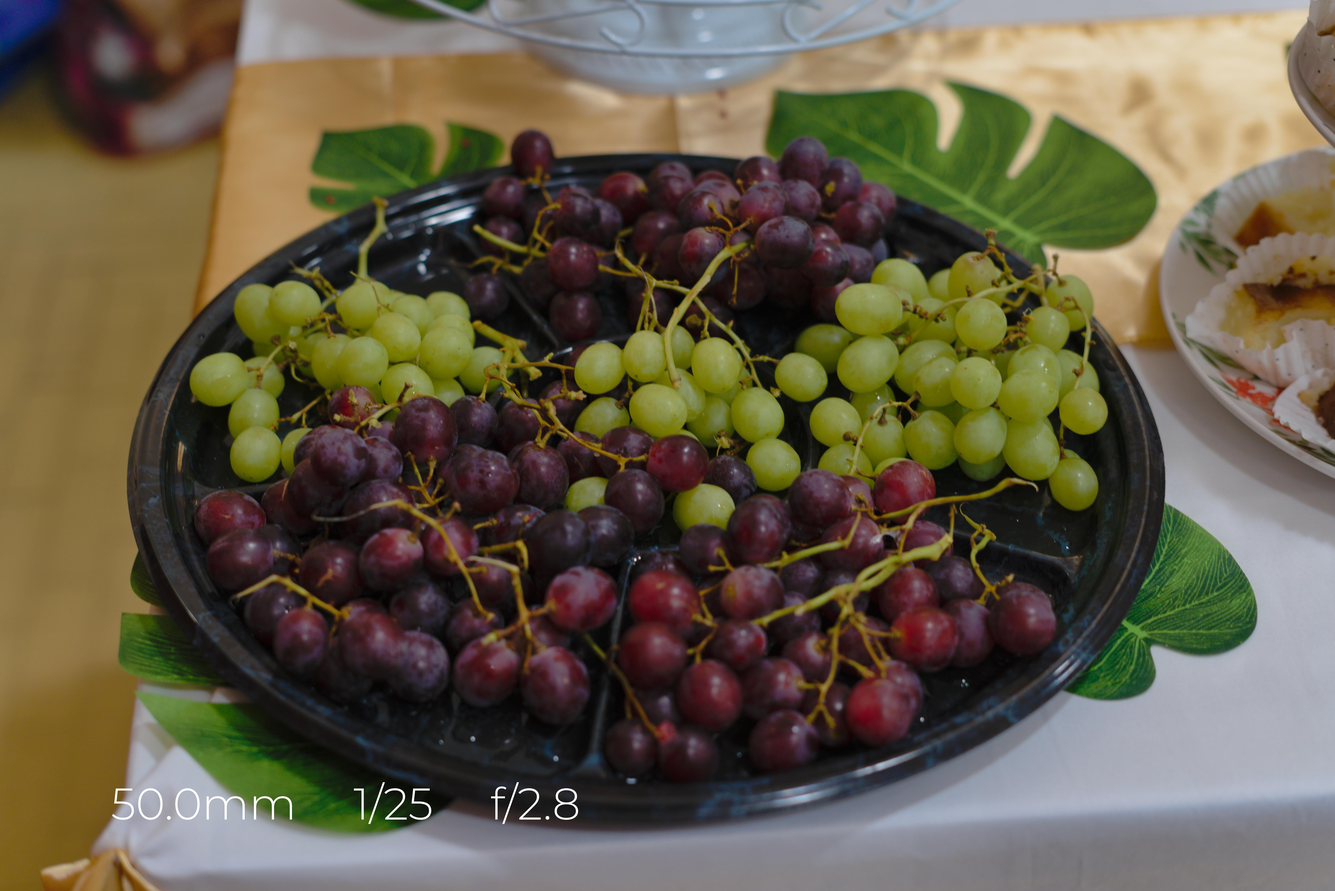
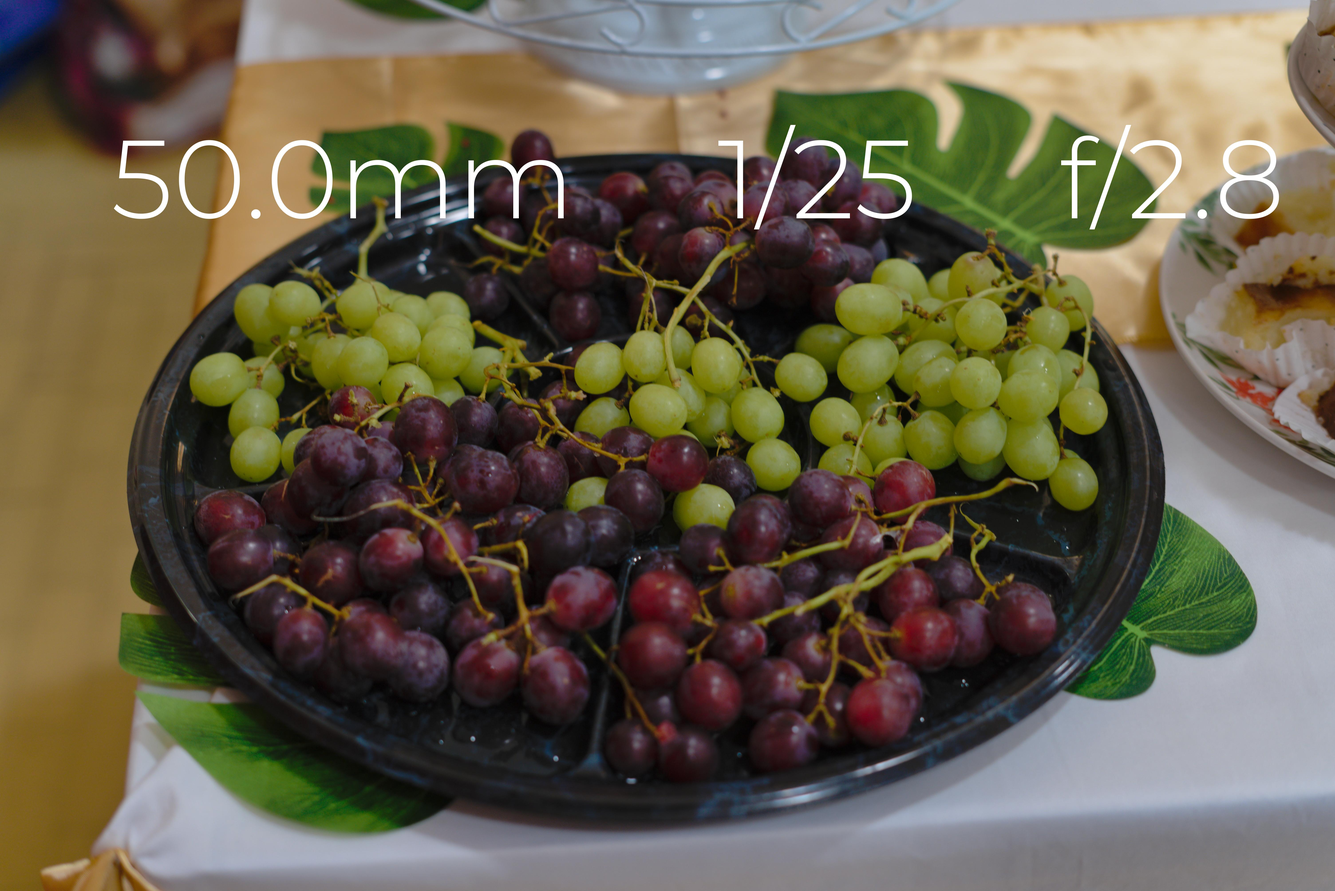
add position and size arguments

diff --git a/main.py b/main.py
@@ -5,16 +5,23 @@ if __name__ == "__main__":
   parser = argparse.ArgumentParser(description="Just an example", formatter_class=argparse.ArgumentDefaultsHelpFormatter)
   parser.add_argument("-d", "--debug", action="store_true", help="debug mode")
   parser.add_argument("-r", "--recursive", action="store_true", help="enable to run on directories recursively. this includes child directories")
+  parser.add_argument("-p", '--pos', help="the position of the text in --pos=X,Y")
+  parser.add_argument('--size', help="the size of the text in pixel height")
+  parser.add_argument("-s", "--skip", action="store_true", help="skip logic")
   parser.add_argument("src", help="source file or directory")
   args = parser.parse_args()
   config = vars(args)
   debug_mode = config['debug']
   debug_mode and print(f"Input arguments: {config}")
   source = config['src']
+  opts = { 'pos': config['pos'], 'size': config['size'] }
+
+  if config['skip']:
+    quit()
 
   if os.path.isfile(source):
     debug_mode and print('File detected. Processing as file.')
-    ImageEmbedder.process_image(source)
+    ImageEmbedder.process_image(source=source, opts=opts)
     print('Processing complete.')
 
   elif os.path.isdir(source):

diff --git a/image_embedder.py b/image_embedder.py
@@ -3,13 +3,14 @@ from functions import *
 import os
 
 class ImageEmbedder:
-  @staticmethod
-  def process_image(source):
+  def process_image(source, opts):
     image = Image.open(source)
     exif = { ExifTags.TAGS[k]: v for k, v in image._getexif().items() if k in ExifTags.TAGS }
     focal_length, exposure_time, aperature = parse_exif(exif)
     text_to_add = f"{focal_length}mm     1/{int(1 / exposure_time)}     f/{aperature}"
-    output = add_text(image, text_to_add, (500, 3500), 200, (255, 255, 255))
+    position = tuple(map(int, opts['pos'].split(','))) or (500,3500)
+    size = int(opts['size']) or 200
+    output = add_text(image, text_to_add, position, size, (255, 255, 255))
     output_filename = generate_filename(source)
     output.save(output_filename)
     print(f'Process complete. {output_filename} created.')
